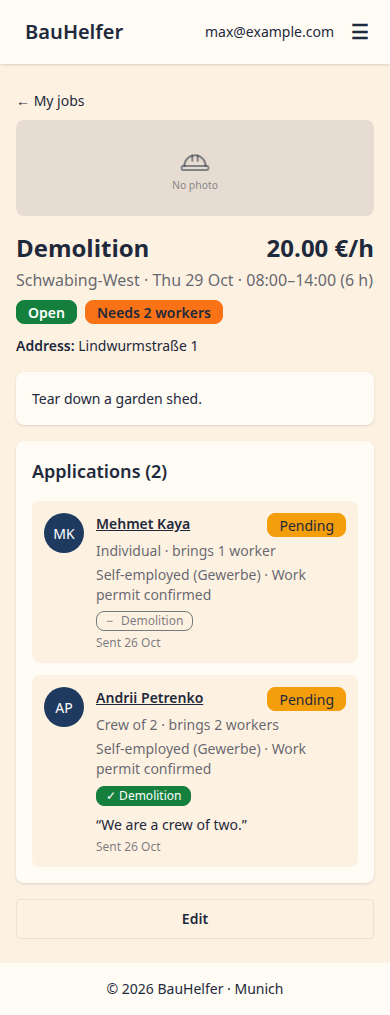
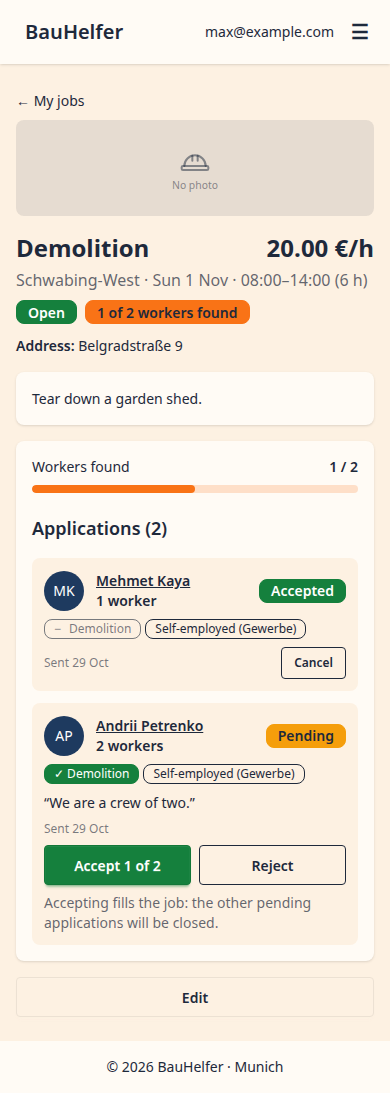
Update the built screenshot of the job page with applications

diff --git a/tests/e2e/built_screenshots.py b/tests/e2e/built_screenshots.py
@@ -56,7 +56,7 @@ def test_save_built_screenshots(page):
     """Save the built screenshots of the screens that exist.
 
     1. Create an employer with three open jobs (one with three photos, one with two
-       applications) and a cancelled one, and a worker
+       applications, one of them accepted) and a cancelled one, and a worker
     2. Open the job list as a guest, the job page as the worker, "Post a job", "My jobs"
        and the job page with the applications as the employer, on a 390 x 844 screen in
        the light theme
@@ -149,6 +149,11 @@ def test_save_built_screenshots(page):
         Application.objects.create(
             job=demolition, worker=applicant, workers_offered=team, message=message
         )
+    # Mehmet accepted (#24): "1 of 2 workers found", the bar, "Cancel", and Andrii's crew
+    # of 2 gets "Accept 1 of 2" with the "fills the job" warning.
+    Application.objects.filter(worker__email="mehmet@example.com").update(
+        status=Application.Status.ACCEPTED, workers_accepted=1
+    )
 
     # live_server does not serve uploads (in-memory storage): answer every photo address.
     picture = photo_bytes("#d9822b")
